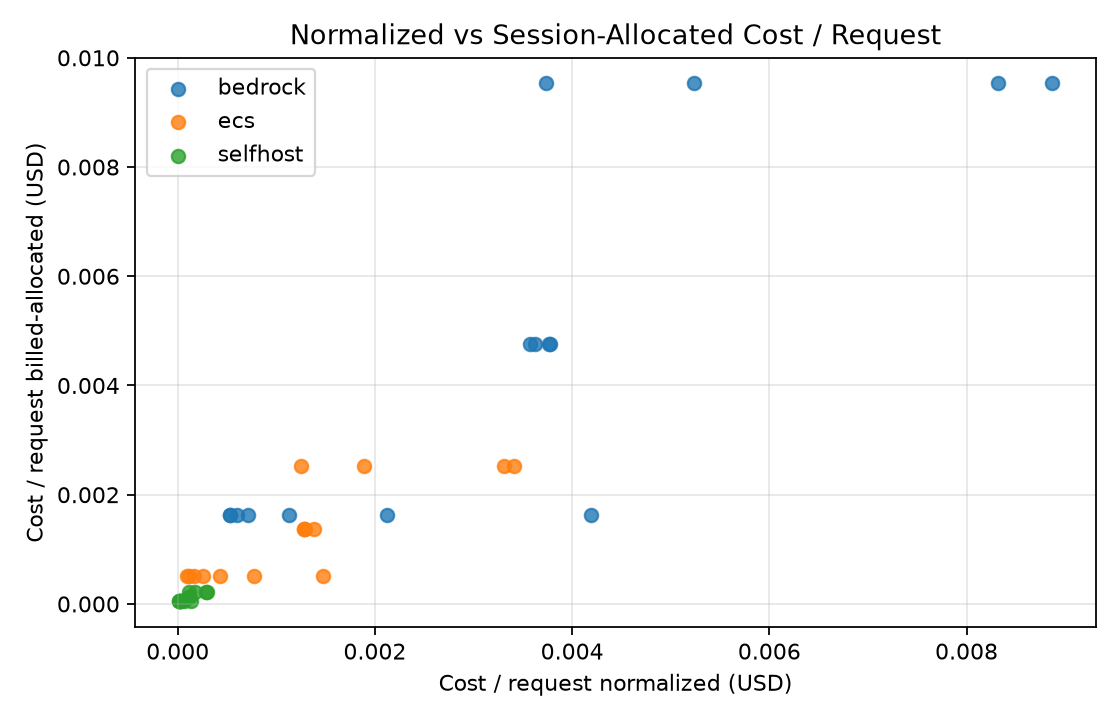
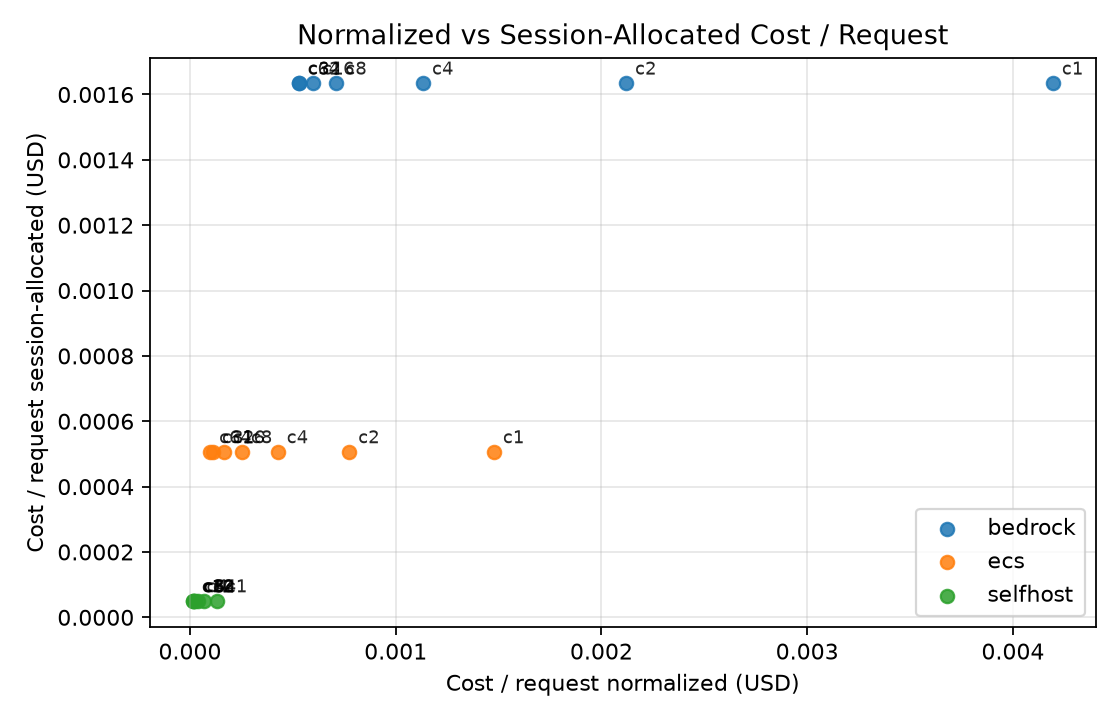
Split cost figures by experiment and refresh PNGs.
Per-experiment scatter plots make concurrency/prompt/output points readable without mixing axes.

diff --git a/scripts/plot_figures.py b/scripts/plot_figures.py
@@ -1,5 +1,9 @@
 #!/usr/bin/env python3
-"""Generate Phase 1 paper figures from with_cost.csv (or aggregated.csv)."""
+"""Generate Phase 1 paper figures from with_cost.csv (or aggregated.csv).
+
+Cost scatter plots are split by experiment so each point can be read as
+backend + the varying parameter (concurrency / prompt / output length).
+"""
 
 from __future__ import annotations
 
@@ -26,13 +30,45 @@ def save(fig: plt.Figure, out: Path) -> None:
     print(f"Wrote {out}")
 
 
+def pick_cost_col(df: pd.DataFrame) -> str | None:
+    for col in ("cost_per_request_normalized_usd", "cost_per_request_usd"):
+        if col in df.columns:
+            return col
+    return None
+
+
+def point_label(row: pd.Series, kind: str) -> str:
+    if kind == "concurrency":
+        return f"c{int(row['concurrency'])}"
+    if kind == "prompt":
+        return str(int(row["mean_input_tokens"]))
+    if kind == "output":
+        return str(int(row["mean_output_tokens"]))
+    return ""
+
+
+def annotate_points(
+    ax: plt.Axes, g: pd.DataFrame, xcol: str, ycol: str, kind: str
+) -> None:
+    for _, row in g.iterrows():
+        label = point_label(row, kind)
+        if not label:
+            continue
+        ax.annotate(
+            label,
+            (row[xcol], row[ycol]),
+            textcoords="offset points",
+            xytext=(4, 4),
+            fontsize=8,
+            alpha=0.85,
+        )
+
+
 def plot_ttft_vs_concurrency(df: pd.DataFrame, out_dir: Path) -> None:
-    # Concurrency experiment rows: varying concurrency, similar prompt sizes
-    sub = df.copy()
-    if sub.empty:
+    if df.empty:
         return
     fig, ax = plt.subplots(figsize=(7, 4.5))
-    for backend, g in sub.groupby("backend"):
+    for backend, g in df.groupby("backend"):
         g = g.sort_values("concurrency")
         y = g["ttft_p50_s"] if "ttft_p50_s" in g else g.get("ttft_mean_s")
         ax.plot(g["concurrency"], y, marker="o", label=backend)
@@ -46,11 +82,10 @@ def plot_ttft_vs_concurrency(df: pd.DataFrame, out_dir: Path) -> None:
 
 
 def plot_latency_vs_prompt(df: pd.DataFrame, out_dir: Path) -> None:
-    sub = df[df["concurrency"] == 1].copy() if "concurrency" in df else df.copy()
-    if sub.empty:
+    if df.empty:
         return
     fig, ax = plt.subplots(figsize=(7, 4.5))
-    for backend, g in sub.groupby("backend"):
+    for backend, g in df.groupby("backend"):
         g = g.sort_values("mean_input_tokens")
         ax.plot(g["mean_input_tokens"], g["e2e_p50_s"], marker="o", label=backend)
     ax.set_xlabel("Mean input tokens")
@@ -101,60 +136,71 @@ def plot_gpu_vs_concurrency(df: pd.DataFrame, out_dir: Path) -> None:
     save(fig, out_dir / "gpu_util_vs_concurrency.png")
 
 
-def plot_cost_vs_throughput(df: pd.DataFrame, out_dir: Path) -> None:
-    cost_col = (
-        "cost_per_request_normalized_usd"
-        if "cost_per_request_normalized_usd" in df.columns
-        else "cost_per_request_usd"
-    )
-    if cost_col not in df.columns:
+def plot_cost_scatter(
+    df: pd.DataFrame,
+    out_dir: Path,
+    *,
+    kind: str,
+    xcol: str,
+    xlabel: str,
+    title: str,
+    filename: str,
+) -> None:
+    cost_col = pick_cost_col(df)
+    if cost_col is None or xcol not in df.columns or df.empty:
         return
-    sub = df.dropna(subset=[cost_col, "output_tokens_per_s"])
+    sub = df.dropna(subset=[cost_col, xcol])
     if sub.empty:
         return
     fig, ax = plt.subplots(figsize=(7, 4.5))
     for backend, g in sub.groupby("backend"):
-        ax.scatter(
-            g["output_tokens_per_s"],
-            g[cost_col],
-            label=backend,
-            alpha=0.8,
-        )
-    ax.set_xlabel("Output tokens / s")
+        ax.scatter(g[xcol], g[cost_col], label=backend, alpha=0.85)
+        annotate_points(ax, g, xcol, cost_col, kind)
+    ax.set_xlabel(xlabel)
     ax.set_ylabel("Cost / request normalized (USD)")
-    ax.set_title("Normalized Cost vs Throughput")
+    ax.set_title(title)
     ax.legend()
     ax.grid(True, alpha=0.3)
-    save(fig, out_dir / "cost_vs_throughput.png")
+    save(fig, out_dir / filename)
 
 
-def plot_cost_vs_latency(df: pd.DataFrame, out_dir: Path) -> None:
-    cost_col = (
-        "cost_per_request_normalized_usd"
-        if "cost_per_request_normalized_usd" in df.columns
-        else "cost_per_request_usd"
+def plot_cost_vs_throughput_for_kind(
+    df: pd.DataFrame, out_dir: Path, kind: str, title: str, filename: str
+) -> None:
+    plot_cost_scatter(
+        df,
+        out_dir,
+        kind=kind,
+        xcol="output_tokens_per_s",
+        xlabel="Output tokens / s",
+        title=title,
+        filename=filename,
     )
-    if cost_col not in df.columns:
-        return
-    sub = df.dropna(subset=[cost_col, "e2e_p50_s"])
-    if sub.empty:
-        return
-    fig, ax = plt.subplots(figsize=(7, 4.5))
-    for backend, g in sub.groupby("backend"):
-        ax.scatter(g["e2e_p50_s"], g[cost_col], label=backend, alpha=0.8)
-    ax.set_xlabel("E2E latency P50 (s)")
-    ax.set_ylabel("Cost / request normalized (USD)")
-    ax.set_title("Normalized Cost vs Latency")
-    ax.legend()
-    ax.grid(True, alpha=0.3)
-    save(fig, out_dir / "cost_vs_latency.png")
 
 
-def plot_cost_normalized_vs_billed(df: pd.DataFrame, out_dir: Path) -> None:
+def plot_cost_vs_latency_for_kind(
+    df: pd.DataFrame, out_dir: Path, kind: str, title: str, filename: str
+) -> None:
+    plot_cost_scatter(
+        df,
+        out_dir,
+        kind=kind,
+        xcol="e2e_p50_s",
+        xlabel="E2E latency P50 (s)",
+        title=title,
+        filename=filename,
+    )
+
+
+def plot_cost_normalized_vs_billed(
+    df: pd.DataFrame, out_dir: Path, *, kind: str, title: str, filename: str
+) -> None:
     need = {"cost_per_request_normalized_usd", "cost_per_request_billed_usd", "backend"}
-    if not need.issubset(df.columns):
+    if not need.issubset(df.columns) or df.empty:
         return
-    sub = df.dropna(subset=["cost_per_request_normalized_usd", "cost_per_request_billed_usd"])
+    sub = df.dropna(
+        subset=["cost_per_request_normalized_usd", "cost_per_request_billed_usd"]
+    )
     if sub.empty:
         return
     fig, ax = plt.subplots(figsize=(7, 4.5))
@@ -163,14 +209,40 @@ def plot_cost_normalized_vs_billed(df: pd.DataFrame, out_dir: Path) -> None:
             g["cost_per_request_normalized_usd"],
             g["cost_per_request_billed_usd"],
             label=backend,
-            alpha=0.8,
+            alpha=0.85,
+        )
+        annotate_points(
+            ax,
+            g,
+            "cost_per_request_normalized_usd",
+            "cost_per_request_billed_usd",
+            kind,
         )
     ax.set_xlabel("Cost / request normalized (USD)")
-    ax.set_ylabel("Cost / request billed-allocated (USD)")
-    ax.set_title("Normalized vs Session-Allocated Cost / Request")
+    ax.set_ylabel("Cost / request session-allocated (USD)")
+    ax.set_title(title)
     ax.legend()
     ax.grid(True, alpha=0.3)
-    save(fig, out_dir / "cost_normalized_vs_billed.png")
+    save(fig, out_dir / filename)
+
+
+def split_experiments(
+    df: pd.DataFrame,
+) -> tuple[pd.DataFrame, pd.DataFrame, pd.DataFrame]:
+    if "experiment" in df.columns:
+        conc = df[df["experiment"] == "concurrency"].copy()
+        prompt = df[df["experiment"] == "prompt_length"].copy()
+        output = df[df["experiment"] == "output_length"].copy()
+        return conc, prompt, output
+
+    if "exp_id" not in df.columns:
+        return df.copy(), df.copy(), df.copy()
+
+    exp_id = df["exp_id"].astype(str)
+    conc = df[exp_id.str.startswith("concurrency_")].copy()
+    prompt = df[exp_id.str.startswith("prompt_length_")].copy()
+    output = df[exp_id.str.startswith("output_length_")].copy()
+    return conc, prompt, output
 
 
 def main() -> int:
@@ -178,7 +250,7 @@ def main() -> int:
     parser.add_argument(
         "--data",
         default=str(ROOT / "results" / "with_cost.csv"),
-        help="Prefer with_cost.csv; falls back guidance if missing",
+        help="Prefer with_cost.csv; falls back to aggregated.csv if missing",
     )
     parser.add_argument(
         "--out-dir",
@@ -199,26 +271,101 @@ def main() -> int:
 
     df = load_df(data_path)
     out_dir = Path(args.out_dir)
-
-    # Heuristic splits for nicer plots when mixed experiments are present
-    conc = df.copy()
-    if "exp_id" in df.columns:
-        conc = df[df["exp_id"].astype(str).str.startswith("concurrency_")].copy()
-        if conc.empty:
-            conc = df.copy()
-        prompt = df[df["exp_id"].astype(str).str.startswith("prompt_length_")].copy()
-        if prompt.empty:
-            prompt = df[df["concurrency"] == 1].copy() if "concurrency" in df else df
-    else:
-        prompt = df
+    conc, prompt, output = split_experiments(df)
 
     plot_ttft_vs_concurrency(conc, out_dir)
     plot_latency_vs_prompt(prompt, out_dir)
     plot_throughput_vs_concurrency(conc, out_dir)
     plot_gpu_vs_concurrency(conc, out_dir)
-    plot_cost_vs_throughput(df, out_dir)
-    plot_cost_vs_latency(df, out_dir)
-    plot_cost_normalized_vs_billed(df, out_dir)
+
+    plot_cost_vs_throughput_for_kind(
+        conc,
+        out_dir,
+        kind="concurrency",
+        title="Normalized Cost vs Throughput (Concurrency)",
+        filename="cost_vs_throughput_concurrency.png",
+    )
+    plot_cost_vs_latency_for_kind(
+        conc,
+        out_dir,
+        kind="concurrency",
+        title="Normalized Cost vs Latency (Concurrency)",
+        filename="cost_vs_latency_concurrency.png",
+    )
+    plot_cost_normalized_vs_billed(
+        conc,
+        out_dir,
+        kind="concurrency",
+        title="Normalized vs Session-Allocated Cost (Concurrency)",
+        filename="cost_normalized_vs_billed_concurrency.png",
+    )
+
+    plot_cost_vs_throughput_for_kind(
+        prompt,
+        out_dir,
+        kind="prompt",
+        title="Normalized Cost vs Throughput (Prompt Length)",
+        filename="cost_vs_throughput_prompt.png",
+    )
+    plot_cost_vs_latency_for_kind(
+        prompt,
+        out_dir,
+        kind="prompt",
+        title="Normalized Cost vs Latency (Prompt Length)",
+        filename="cost_vs_latency_prompt.png",
+    )
+    plot_cost_normalized_vs_billed(
+        prompt,
+        out_dir,
+        kind="prompt",
+        title="Normalized vs Session-Allocated Cost (Prompt Length)",
+        filename="cost_normalized_vs_billed_prompt.png",
+    )
+
+    plot_cost_vs_throughput_for_kind(
+        output,
+        out_dir,
+        kind="output",
+        title="Normalized Cost vs Throughput (Output Length)",
+        filename="cost_vs_throughput_output.png",
+    )
+    plot_cost_vs_latency_for_kind(
+        output,
+        out_dir,
+        kind="output",
+        title="Normalized Cost vs Latency (Output Length)",
+        filename="cost_vs_latency_output.png",
+    )
+    plot_cost_normalized_vs_billed(
+        output,
+        out_dir,
+        kind="output",
+        title="Normalized vs Session-Allocated Cost (Output Length)",
+        filename="cost_normalized_vs_billed_output.png",
+    )
+
+    # Keep legacy filenames as concurrency-only for older links
+    plot_cost_vs_throughput_for_kind(
+        conc,
+        out_dir,
+        kind="concurrency",
+        title="Normalized Cost vs Throughput",
+        filename="cost_vs_throughput.png",
+    )
+    plot_cost_vs_latency_for_kind(
+        conc,
+        out_dir,
+        kind="concurrency",
+        title="Normalized Cost vs Latency",
+        filename="cost_vs_latency.png",
+    )
+    plot_cost_normalized_vs_billed(
+        conc,
+        out_dir,
+        kind="concurrency",
+        title="Normalized vs Session-Allocated Cost / Request",
+        filename="cost_normalized_vs_billed.png",
+    )
     return 0
 
 
